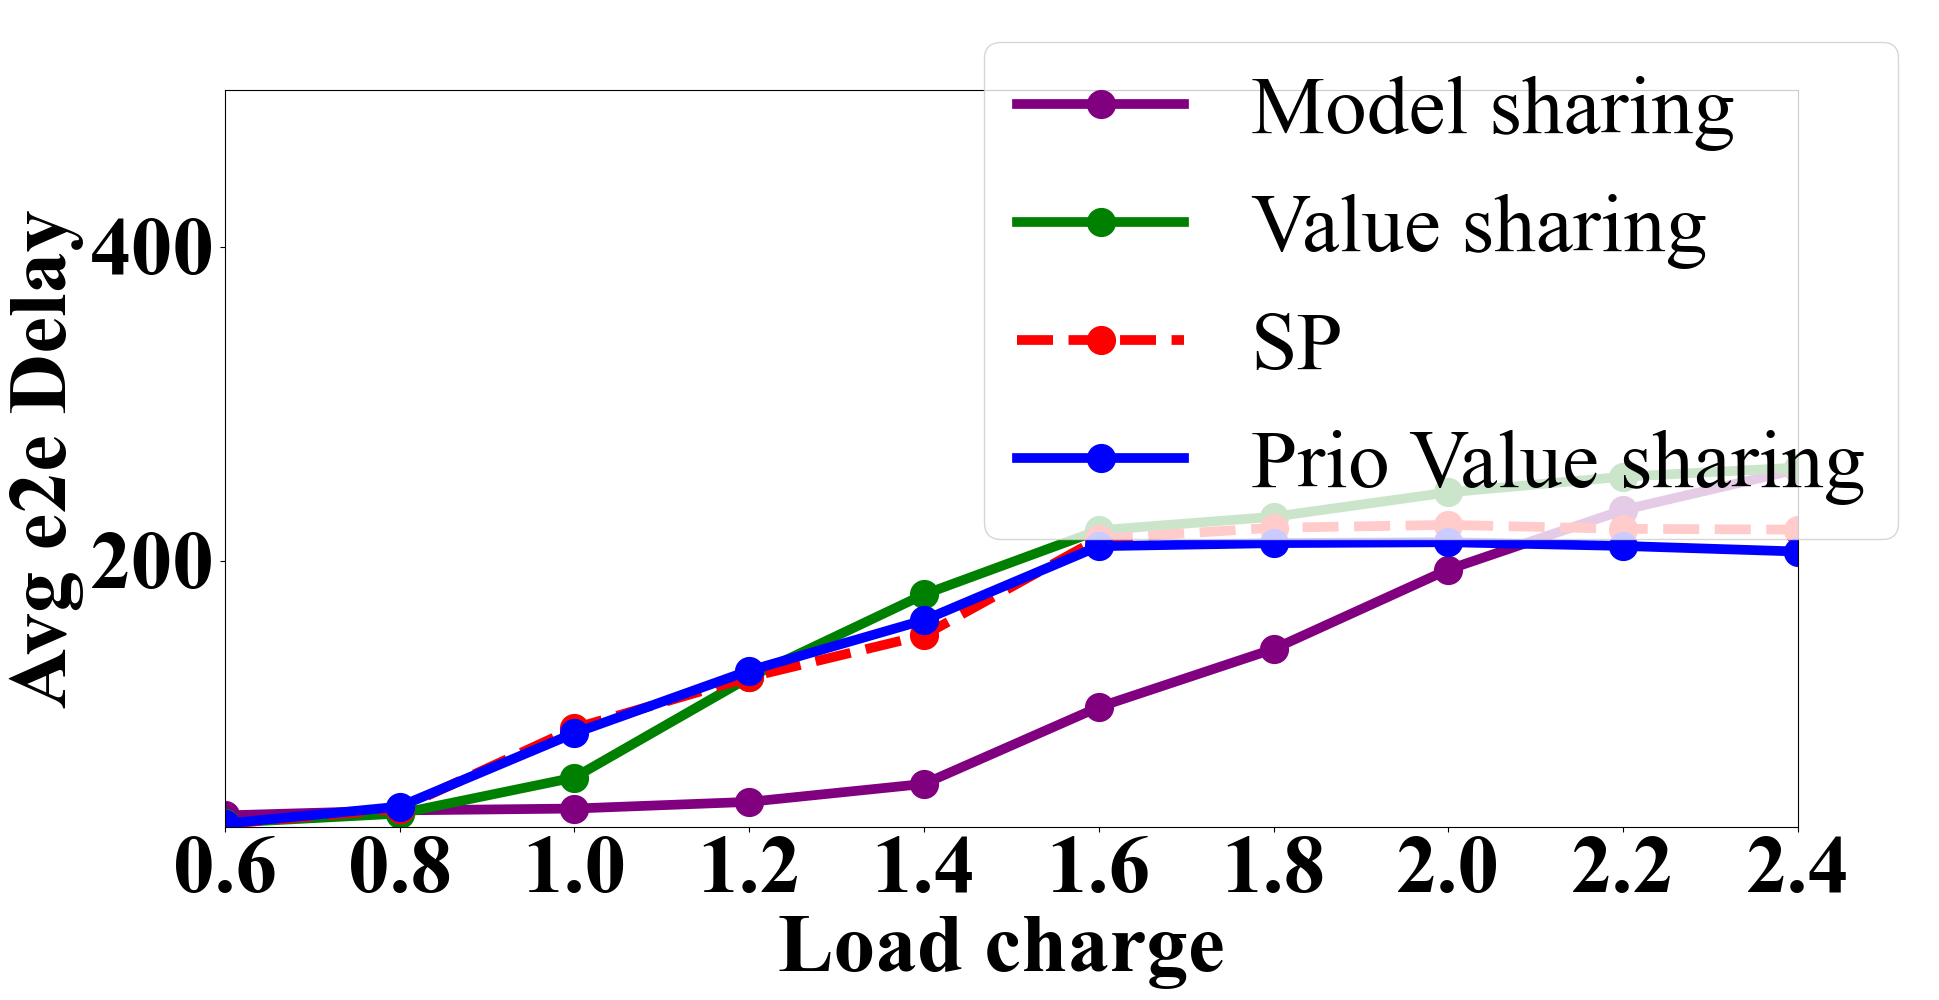
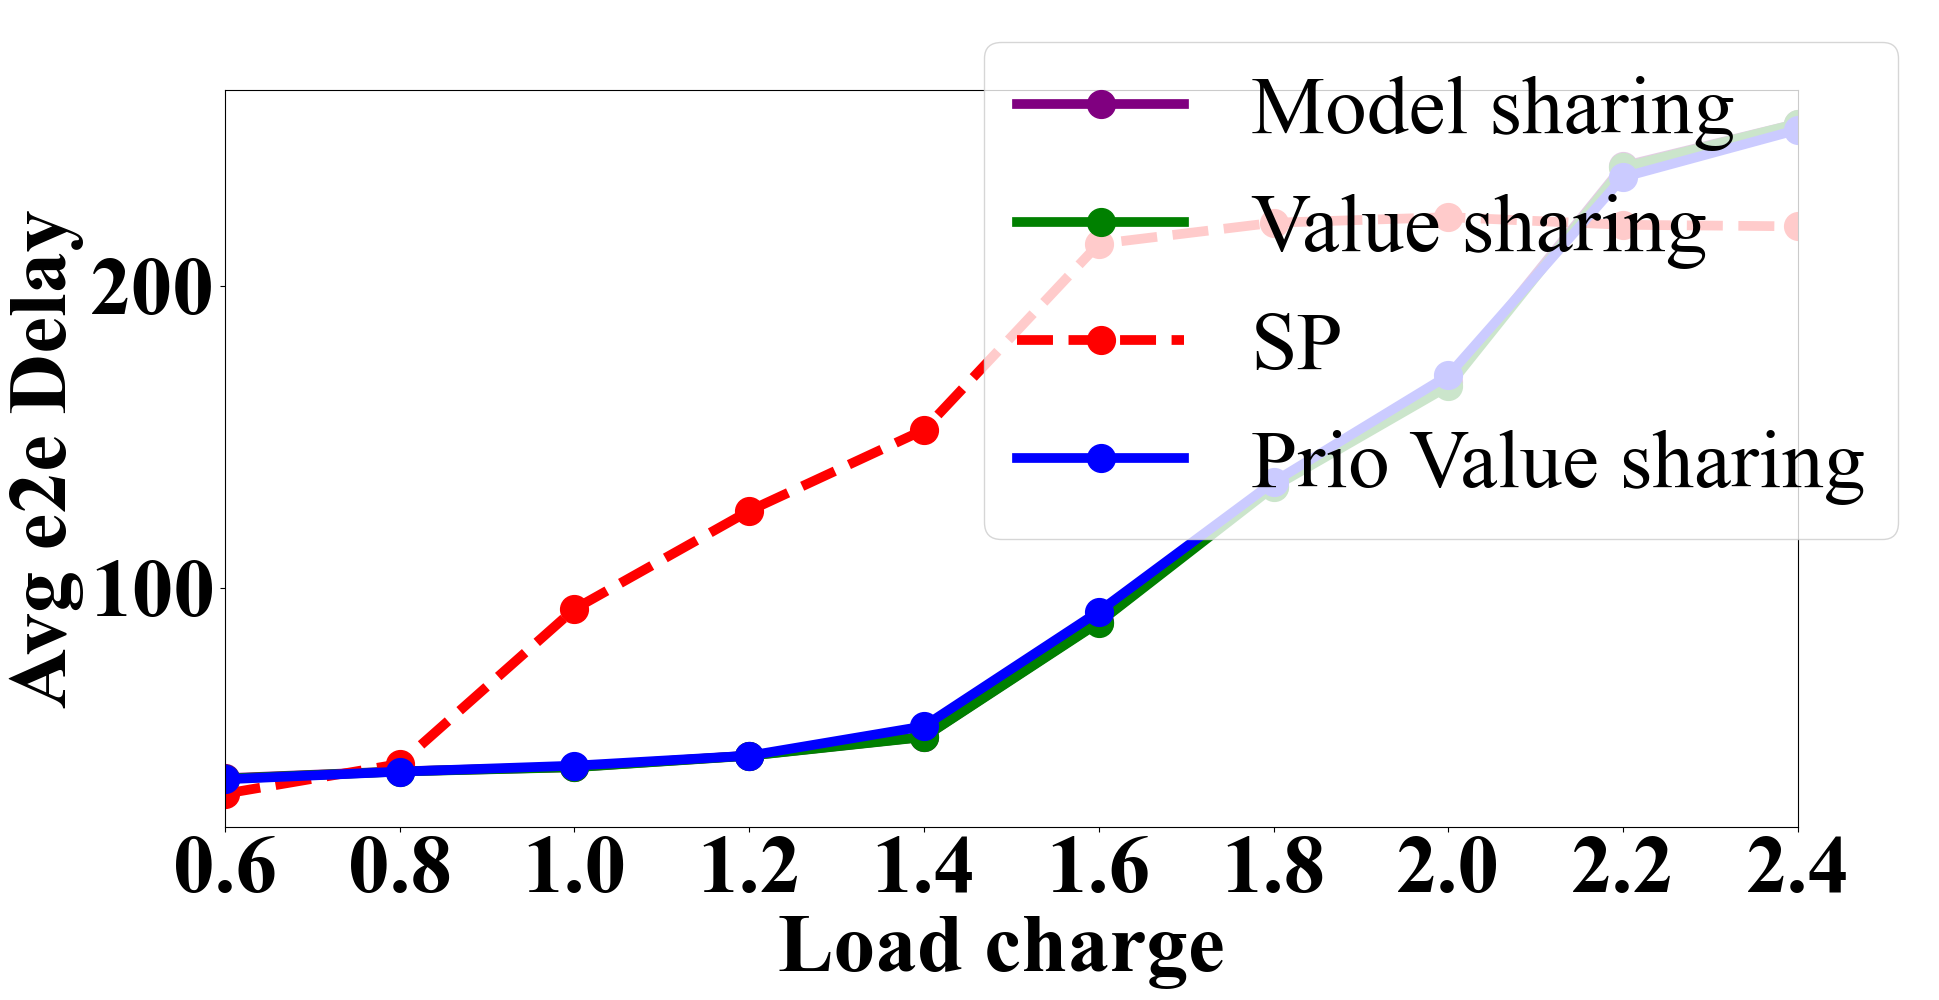
Correction in script

diff --git a/prisma/examples/abilene/plot_code.py b/prisma/examples/abilene/plot_code.py
@@ -54,7 +54,7 @@ if __name__ == '__main__':
             # fig1, ax1 = plt.subplots()
             # fig1.set_size_inches(19.4, 10)
             # [0.6428656100517803, 0.47653319732663824, 0.44059512730308725, 0.36639229472221074, 0.5688626373310568, ]
-            for xxx, signaling_type in enumerate(["NN", "target", "sp", "prio"]):
+            for xxx, signaling_type in enumerate(["NN",  "sp", "target", "prio"]):
                 #if(xxx==1):
                 #    continue
                 # if kkk_idx==1 and xxx >1:
@@ -82,14 +82,14 @@ if __name__ == '__main__':
                     # syncs.remove(7000)
                     # syncs = np.arange(500, 5000, 500).tolist() + np.arange(5000, 15000, 5000).tolist()
                 if signaling_type in ("ideal", "NN"):
-                    names = [f"prio_dqn_buffer{lite[xxx]}_{signaling_type}_{signaling_inband}_fixed_rb_{rb_size}_sync{xx}ms_ratio_10_overlayPackets_50" for xx in syncs for yy in overlayPackets] 
+                    names = [f"prio_0_dqn_buffer{lite[xxx]}_NN_{signaling_inband}_fixed_rb_10000_sync{xx}ms_ratio_10_overlayPackets_{yy}" for xx in syncs for yy in overlayPackets] 
                     official_names = [f"DQN Buffer {signaling_type} sync {xx}s overlayPackets {yy}" for xx in np.array(syncs)/1000 for yy in overlayPackets] 
                 elif signaling_type in ("target"):
                     print("here")
-                    names = [f"prio_dqn_buffer{lite[xxx]}_{signaling_type}_{signaling_inband}_fixed_rb_5000_sync{xx}ms_ratio_10_overlayPackets_{yy}" for xx in syncs for yy in overlayPackets] 
+                    names = [f"prio_0_dqn_buffer{lite[xxx]}_target_{signaling_inband}_fixed_rb_10000_sync{xx}ms_ratio_10_overlayPackets_{yy}" for xx in syncs for yy in overlayPackets] 
                     official_names = [f"DQN Buffer {signaling_type} sync {xx}s overlayPackets {yy}" for xx in np.array(syncs)/1000 for yy in overlayPackets]  
                 elif signaling_type in ("prio"):
-                    names = [f"prio_60_1_dqn_buffer{lite[xxx]}_target_{signaling_inband}_fixed_rb_5000_sync{xx}ms_ratio_10_overlayPackets_{yy}" for xx in syncs for yy in overlayPackets] 
+                    names = [f"prio_1_dqn_buffer{lite[xxx]}_target_{signaling_inband}_fixed_rb_10000_sync{xx}ms_ratio_10_overlayPackets_{yy}" for xx in syncs for yy in overlayPackets] 
                     official_names = [f"DQN Buffer {signaling_type} sync {xx}s overlayPackets {yy}" for xx in np.array(syncs)/1000 for yy in overlayPackets]
                 
                 elif signaling_type == "sp":
@@ -180,9 +180,9 @@ if __name__ == '__main__':
                   color=colors[3],
                   linewidth=7,
                   markersize=20)
-            if(kkk_idx==0): ax2.set_ylim(0.0, 2.0)
-            if(kkk_idx==1): ax2.set_ylim(30, 500)
-            if(kkk_idx==2): ax2.set_ylim(0.0, 0.5)
+            #if(kkk_idx==0): ax2.set_ylim(0.0, 2.0)
+            #if(kkk_idx==1): ax2.set_ylim(30, 500)
+            #if(kkk_idx==2): ax2.set_ylim(0.0, 0.5)
             ax2.set_xlim(0.6, 2.4)
             ax2.set_xticks(np.array(list_charges)/100, np.array(list_charges)/100)#(np.arange(1, 9, 1, dtype =int), np.arange(1, 9, 1, dtype =int))
             fig2.legend(prop={'weight':'normal'})

diff --git a/prisma/main.py b/prisma/main.py
@@ -359,8 +359,8 @@ def main():
     random.seed(params["seed"])
 
     ## test results file name
-    test_results_file_name = f'{params["logs_parent_folder"]}/_tests_overlay_6/prio_80_{params["prioritizedReplayBuffer"]}_{params["agent_type"]}_{params["signaling_type"]}_{params["signalingSim"]}_fixed_rb_{params["replay_buffer_max_size"]}_sync{int(1000*params["sync_step"])}ms_ratio_{int(100*params["sync_ratio"])}_overlayPackets_{params["nPacketsOverlay"]}_load_{int(100*params["load_factor"])}.txt'
-    train_results_file_name = f'{params["logs_parent_folder"]}/_train_overlay_6/prio_80_{params["prioritizedReplayBuffer"]}_{params["agent_type"]}_{params["signaling_type"]}_{params["signalingSim"]}_fixed_rb_{params["replay_buffer_max_size"]}_sync{int(1000*params["sync_step"])}ms_ratio_{int(100*params["sync_ratio"])}_overlayPackets_{params["nPacketsOverlay"]}_load_{int(100*params["load_factor"])}.txt'
+    test_results_file_name = f'{params["logs_parent_folder"]}/_tests_overlay_6/prio_{params["prioritizedReplayBuffer"]}_{params["agent_type"]}_{params["signaling_type"]}_{params["signalingSim"]}_fixed_rb_{params["replay_buffer_max_size"]}_sync{int(1000*params["sync_step"])}ms_ratio_{int(100*params["sync_ratio"])}_overlayPackets_{params["nPacketsOverlay"]}_load_{int(100*params["load_factor"])}.txt'
+    train_results_file_name = f'{params["logs_parent_folder"]}/_train_overlay_6/prio_{params["prioritizedReplayBuffer"]}_{params["agent_type"]}_{params["signaling_type"]}_{params["signalingSim"]}_fixed_rb_{params["replay_buffer_max_size"]}_sync{int(1000*params["sync_step"])}ms_ratio_{int(100*params["sync_ratio"])}_overlayPackets_{params["nPacketsOverlay"]}_load_{int(100*params["load_factor"])}.txt'
     print(test_results_file_name)
     if params["train"] == 1:
         if params["session_name"] in os.listdir(params["logs_parent_folder"] + "/saved_models/"):
